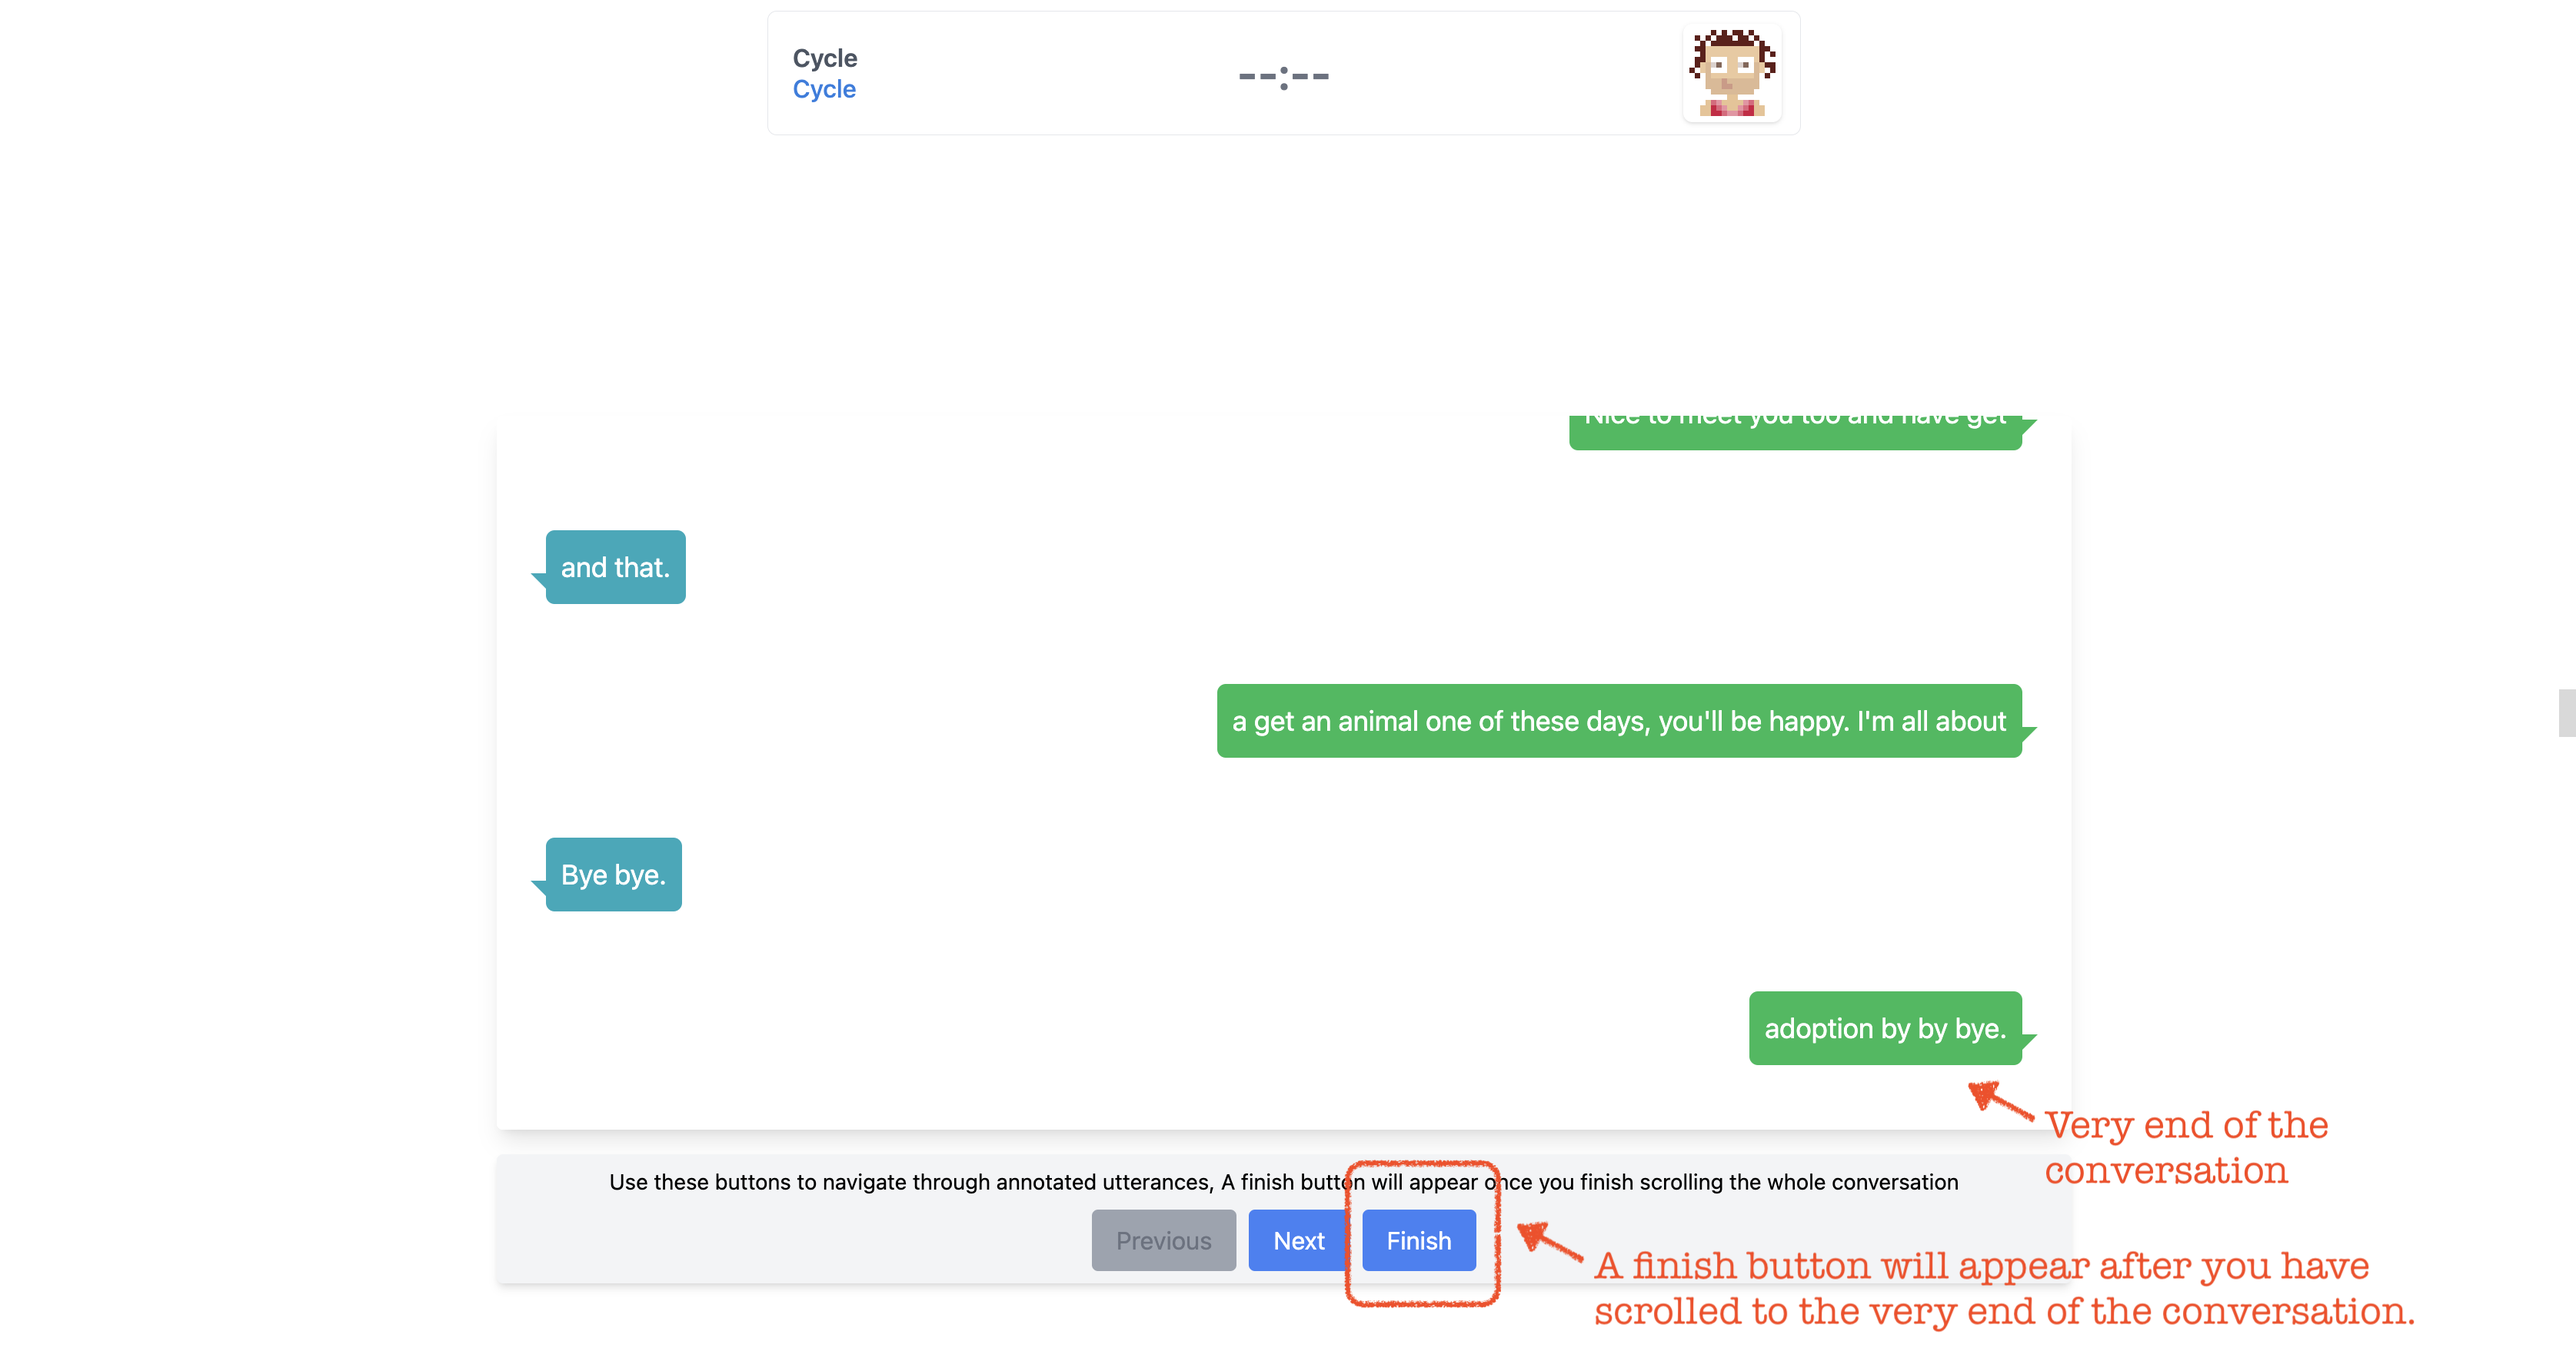
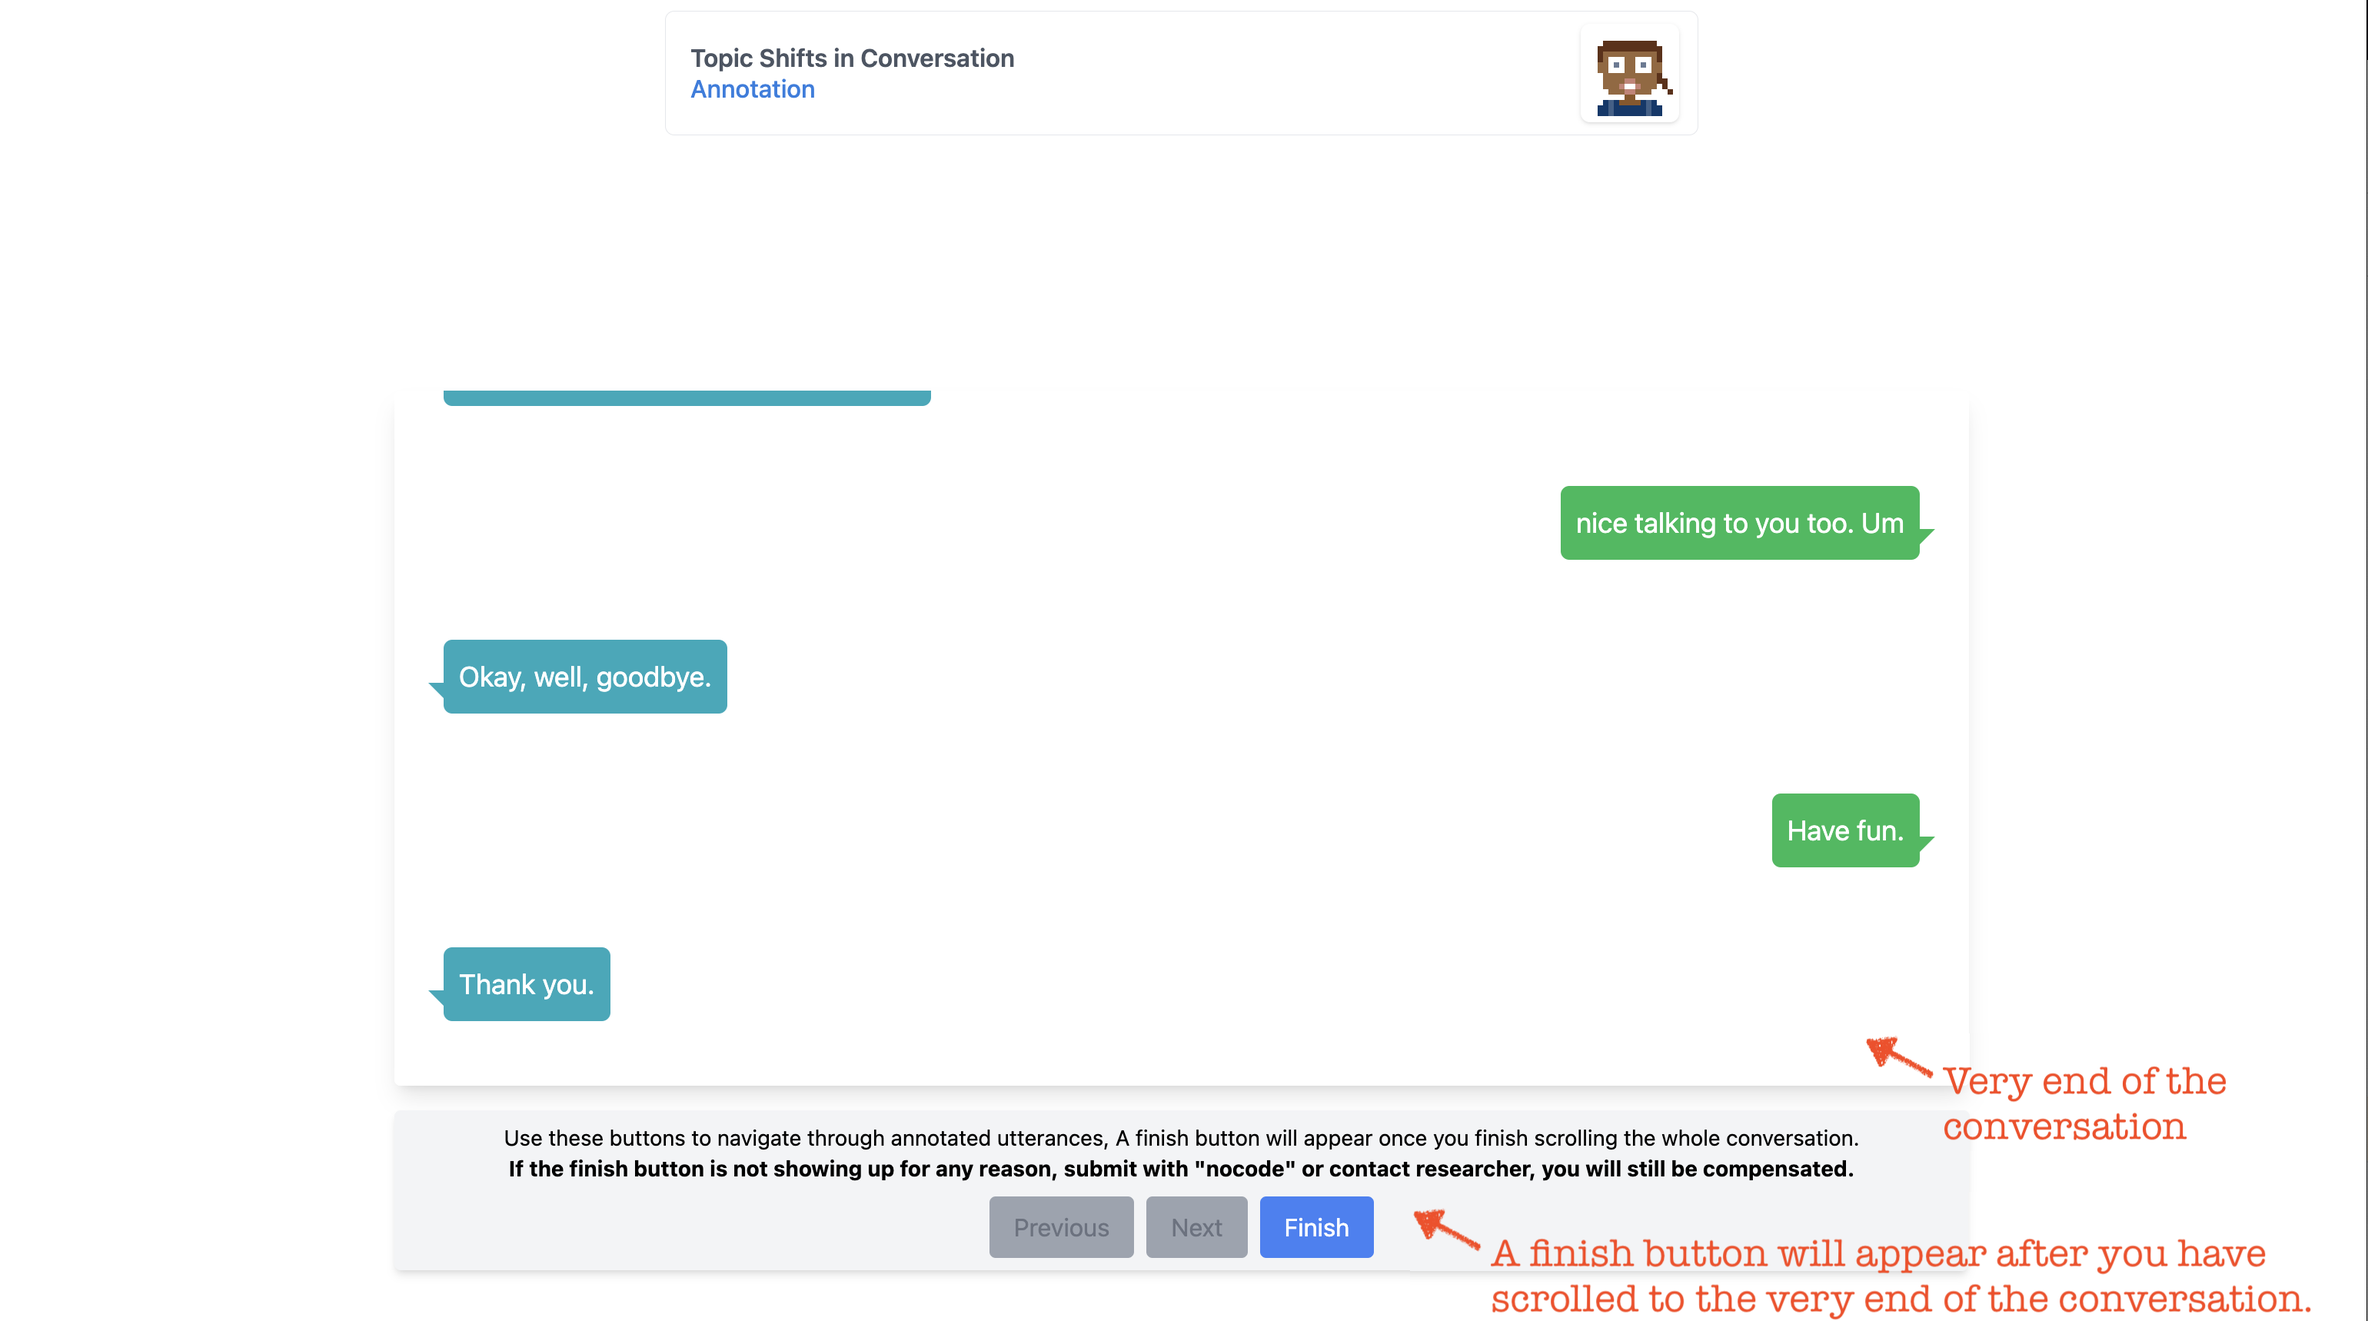
version for dense subset collection

diff --git a/experiment1/client/src/components/Introduction.jsx b/experiment1/client/src/components/Introduction.jsx
@@ -1,4 +1,4 @@
-import React from "react";
+import React, { useEffect } from "react";
 import { Button } from "./Button";
 import {
   usePlayer,
@@ -14,45 +14,57 @@ export function Introduction() {
   const game = useGame();
   const round = useRound();
 
+  useEffect(() => {
+    window.scrollTo(0, 0);
+  }, []);
+
   const example_data = round.get("example");
 
   console.log(example_data);
 
   return (
     <div className="flex flex-col items-center justify-center w-screen p-6 space-y-6 bg-gray-100">
-      <p className="text-lg text-center mb-4">
-        In this experiment, you will be reading an online conversation between
-        two people and marking points in the conversation when they switch which
-        topic they’re talking about.
-      </p>
-
-      <p className="text-lg text-red-500 text-center mb-4">
+      {/* <p className="text-lg text-red-500 text-center mb-4">
         *Ignore the timers on all the following examples, you are not being
         timed in this experiment
-      </p>
+      </p> */}
 
       <h1 className="text-2xl font-bold mb-4">Experiment Interface</h1>
+      <p className="text-lg text-center mb-4 max-w-4xl">
+        In this experiment, you will be reading an online conversation between
+        two people and marking points in the conversation when they switch which
+        topic they're talking about.
+      </p>
+      <p className="text-lg text-center mb-4 max-w-4xl">
+        When you begin the experiment, you will see the beginning of their conversation:
+      </p>
       <div className="flex flex-col items-center mb-4">
         <img
           className="w-full max-w-4xl mb-4"
           src="/Starting_Interface.png"
           alt="Experiment Interface"
         />
-        <img
+        {/* <img
           className="w-full max-w-4xl"
           src="/side_panel.png"
           alt="Finish Interface"
-        />
+        /> */}
       </div>
 
       <h1 className="text-2xl font-bold mb-4">Annotating an Utterance</h1>
+      <p className="text-lg text-center mb-4 max-w-4xl">
+        As you scroll through the conversation, please watch for any places where they switch the topic of conversation. When you find a topic switch, 
+        click on the message where the switch happened. Then you will see a small side panel pop up where we will ask you to provide an informative label 
+        for what the for topic is about. The previous topic will be filled in for your reference. For example, at this point in the conversation, the topic 
+        switches to talking about time.
+      </p>
       <img
         className="w-full max-w-4xl mb-4"
         src="/interface_explain.png"
         alt="Annotation Flow"
       />
 
-      <ul className="list-disc list-inside mb-4">
+      <ul className="list-disc list-inside mb-4 max-w-4xl">
         <li className="mb-2">
           When you see a point in the conversation when a new topic is
           introduced, click on the message you want to annotate. An input box
@@ -60,19 +72,19 @@ export function Introduction() {
         </li>
         <li className="mb-2">
           Annotated history will appear above the utterance once it has been
-          annotated. To delete an annotation, click the ‘x’ mark next to the
+          annotated. To delete an annotation, click the 'x' mark next to the
           annotated history.
         </li>
         <li>To change an annotation, simply submit a new annotation.</li>
       </ul>
 
-      <img
+      {/* <img
         className="w-full max-w-4xl mb-4"
         src="/Intro_flow.png"
         alt="Annotation Flow"
-      />
+      /> */}
 
-      <p className="text-lg text-center mb-4">
+      <p className="text-lg text-center mb-4 max-w-4xl">
         Here is a gif showing this process.
       </p>
       <img
@@ -82,9 +94,9 @@ export function Introduction() {
       />
 
       <h1 className="text-2xl font-bold mb-4">Finish</h1>
-      <p className="text-lg text-center mb-4">
+      <p className="text-lg text-center mb-4 text-left max-w-4xl">
         Once you have finished annotating the entire conversation, scroll to the
-        end. If you haven’t already, a 'Finish' button will appear. Click the
+        end. If you haven't already, a 'Finish' button will appear. Click the
         'Finish' button, which will take you to an exit-survey.
       </p>
 
@@ -95,9 +107,9 @@ export function Introduction() {
       />
 
       <h1 className="text-2xl font-bold mb-4">
-        General Rule of Thumb and Common Problems
+       Rules of thumb and Common Problems
       </h1>
-      <ul className="list-disc list-inside">
+      <ul className="list-disc list-inside max-w-4xl">
         <li className="mb-2">
           Annotate only the new topic—the topic to which the conversation is
           shifting. The previous topic is provided as a reminder of your
@@ -115,10 +127,10 @@ export function Introduction() {
       </ul>
 
       <h1 className="text-2xl font-bold mb-4">FAQ</h1>
-      <ul className="list-disc list-inside">
+      <ul className="list-disc list-inside max-w-4xl">
         <li className="mb-2">
           <strong>
-            1. What should I do if an utterance doesn’t make sense due to
+            1. What should I do if an utterance doesn't make sense due to
             transcription errors?
           </strong>
           <p>
@@ -139,16 +151,15 @@ export function Introduction() {
         </li>
         <li className="mb-2">
           <strong>
-            3. Should I annotate a topic if it has already been annotated
-            previously?
+            3. What should I do if they return to a topic from earlier?
           </strong>
           <p>
-            Yes, please annotate the topic even if it has been annotated before.
+            Please annotate the topic even if it has been annotated earlier in the conversation.
           </p>
         </li>
       </ul>
       <h1 className="text-2xl font-bold mb-4">Annotated Example</h1>
-      <p className="text-lg text-center mb-4">
+      <p className="text-lg text-center mb-4 max-w-4xl">
         Here is an annotated example of an short conversation
       </p>
       <div className="bg-white p-4 rounded shadow-lg w-1/2 h-[50vh] overflow-y-auto">
@@ -164,7 +175,7 @@ export function Introduction() {
           player.stage.set("submit", true);
         }}
       >
-        Next
+        Ready to begin?
       </button>
     </div>
   );

diff --git a/experiment1/client/src/intro-exit/ExitSurvey.jsx b/experiment1/client/src/intro-exit/ExitSurvey.jsx
@@ -133,7 +133,7 @@ export function ExitSurvey({ next }) {
                     />
                   </div>
                 </div>
-                <div className="ml-5">
+                {/* <div className="ml-5">
                   <label htmlFor="email" className={labelClassName}>
                     Political Leaning
                   </label>
@@ -147,7 +147,7 @@ export function ExitSurvey({ next }) {
                       onChange={(e) => setPolitics(e.target.value)}
                     />
                   </div>
-                </div>
+                </div> */}
                 <div className="ml-5">
                   <label htmlFor="email" className={labelClassName}>
                     Nationality / Area
@@ -182,7 +182,7 @@ export function ExitSurvey({ next }) {
                     selected={education}
                     name="education"
                     value="bachelor"
-                    label="US Bachelor's Degree"
+                    label="Bachelor's Degree"
                     onChange={handleEducationChange}
                   />
                   <Radio
@@ -190,6 +190,13 @@ export function ExitSurvey({ next }) {
                     name="education"
                     value="master"
                     label="Master's or higher"
+                    onChange={handleEducationChange}
+                  />
+                  <Radio
+                    selected={education}
+                    name="education"
+                    value="No-high-school"
+                    label="No high school degree"
                     onChange={handleEducationChange}
                   />
                   <Radio
@@ -206,11 +213,11 @@ export function ExitSurvey({ next }) {
               </h3>
               <div className="grid grid-cols-2 gap-x-6 gap-y-3">
                 <label className={labelClassName}>
-                  Do you think the instruction is clear?
+                  Do you think the instructions are clear?
                 </label>
 
  <label className={labelClassName}>
-                  Have you encountered any problem with the interface?
+                  Have you encountered any problems with the interface?
                 </label>
                 <textarea
                   className={inputClassName}
@@ -236,22 +243,22 @@ export function ExitSurvey({ next }) {
               <h3 className="text-medium leading-6 font-medium text-gray-900">
                 Review
               </h3>
-              <div className="grid grid-cols-3 gap-x-6 gap-y-3">
-                <label className={labelClassName}>
+              <div className="grid grid-cols-2 gap-x-6 gap-y-3">
+                {/* <label className={labelClassName}>
                   How would you describe your strength in the experiment?
-                </label>
+                </label> */}
 
                 <label className={labelClassName}>
                   Do you feel the pay was fair?
                 </label>
 
                 <label className={labelClassName}>
-                  General feedback, including problems you encountered.
+                  General feedback, including other problems you encountered.
                 </label>
 
                
 
-                <textarea
+                {/* <textarea
                   className={inputClassName}
                   dir="auto"
                   id="strength"
@@ -259,7 +266,7 @@ export function ExitSurvey({ next }) {
                   rows={4}
                   value={strength}
                   onChange={(e) => setStrength(e.target.value)}
-                />
+                /> */}
 
                 <textarea
                   className={inputClassName}

diff --git a/experiment1/server/src/callbacks.js b/experiment1/server/src/callbacks.js
@@ -35,8 +35,8 @@ Empirica.onGameStart(({ game }) => {
       game.set('conversation_id', file.file_id) // actual file id
       console.log('file loaded')
       const round = game.addRound({
-        name: "Candor",
-        task: "Candor",
+        name: "Topic Shifts in Conversation",
+        task: "Topic Shifts in Conversation",
       })
       round.addStage({name: "Instruction", duration: 30000000})
       round.addStage({name: "Annotation", duration: 30000000 })

diff --git a/experiment1/client/src/components/World.jsx b/experiment1/client/src/components/World.jsx
@@ -209,9 +209,10 @@ export function World() {
             ref={scrollRef}
             onScroll={(e) => {
               const element = e.target;
+              const tolerance = 2000;
               if (
                 element.scrollHeight - element.scrollTop <=
-                element.clientHeight
+                element.clientHeight + tolerance
               ) {
                 setFinishScroll(true);
               }

diff --git a/experiment1/client/src/intro-exit/Consent.jsx b/experiment1/client/src/intro-exit/Consent.jsx
@@ -49,7 +49,7 @@ export function Consent({ next }) {
         harm, please contact the University of Wisconsin-Madison Human Research Protection Program at 608-890-4399 or <a href="mailto:compliance@research.wisc.edu">compliance@research.wisc.edu</a>.
           </p><br/>
         </div>
-        <Button handleClick={next} autoFocus>
+        <Button handleClick={next}>
           <p>Next</p>
         </Button>
       </div>
